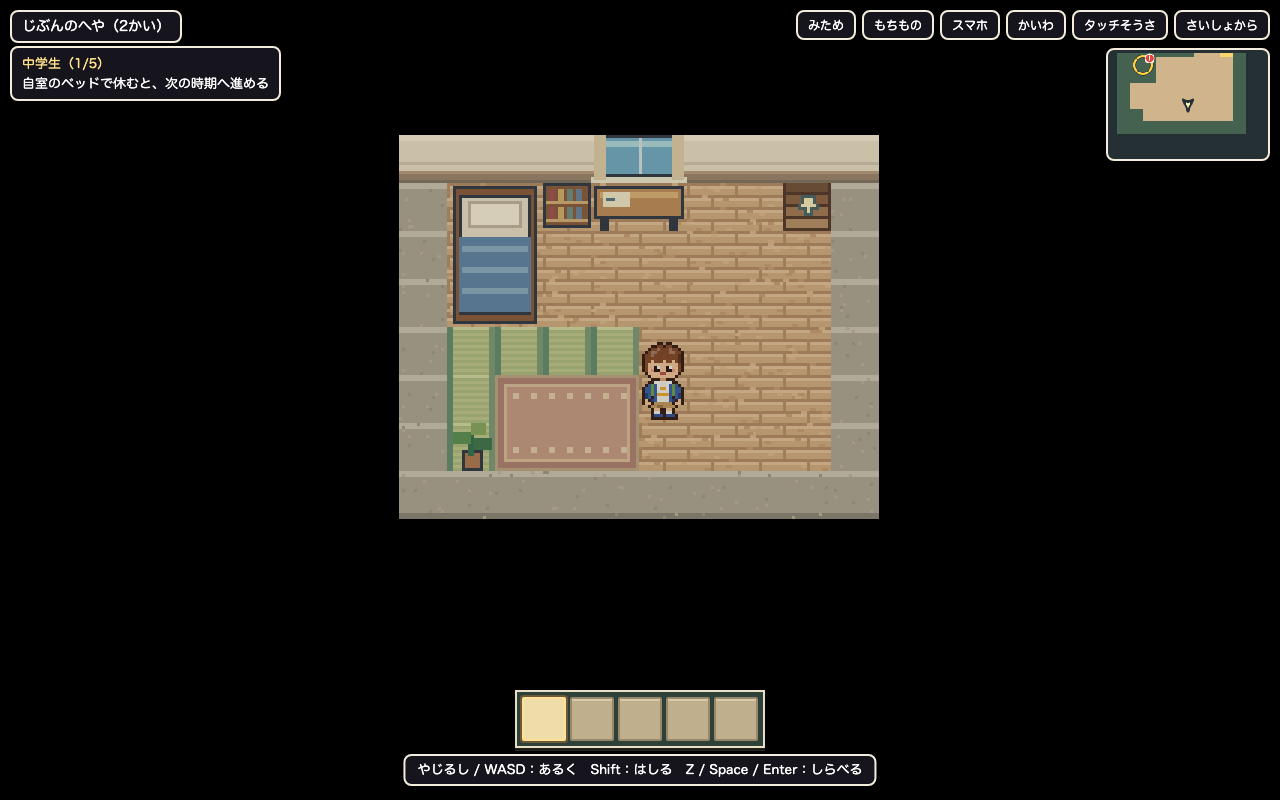
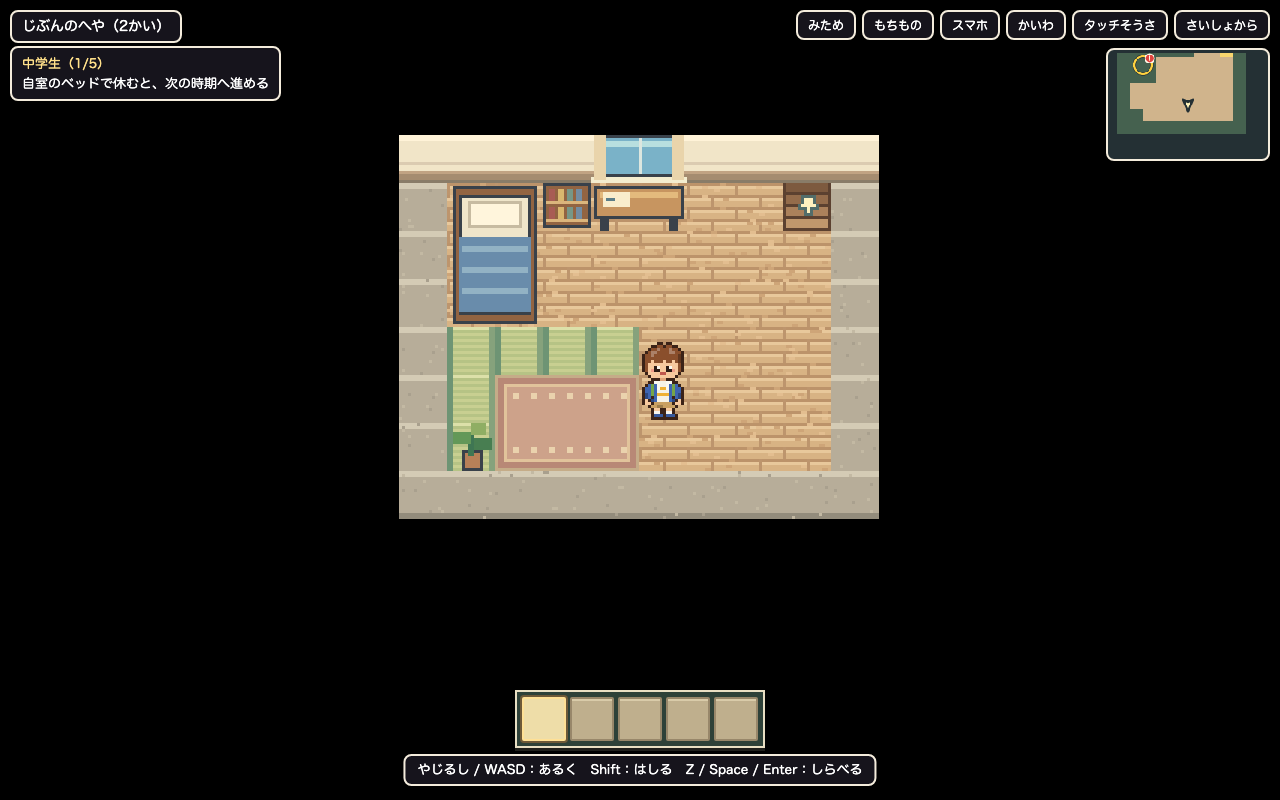
fix(story): 母親の台詞に合わせてお使いの案内を表示する

Changed region(s): [[0.3125, 0.1562, 0.6875, 0.6562]]

diff --git a/game/tests/story-usability.test.ts b/game/tests/story-usability.test.ts
@@ -1,10 +1,35 @@
 import { describe, expect, it } from 'vitest';
+import { DialogController } from '../src/events/dialog';
 import { LifeEventDirector } from '../src/events/director';
-import { STORY_ERRANDS } from '../src/story/config';
+import { STORY_ERRANDS, STORY_MOTHER_KEY, type StoryErrand } from '../src/story/config';
 import { StoryDirector } from '../src/story/director';
 import { STORY_EVENTS } from '../src/story/events';
-import { newStoryState } from '../src/story/state';
+import { storyMapGoals } from '../src/story/map-goals';
+import { newStoryState, parseStorySave } from '../src/story/state';
 import { storyTasks } from '../src/ui/story-hud';
+
+function openMotherDialog(story: StoryDirector, dialog: DialogController): void {
+  const reply = story.onMapEvent({ type: 'interact', areaId: 'home-family-interior',
+    interactionId: 'mother', eventKey: STORY_MOTHER_KEY });
+  if (!reply) throw new Error('The mother did not respond');
+  expect(dialog.open(reply.speaker ?? '', reply.lines)).toBe(true);
+}
+
+function startIntroduction() {
+  const story = StoryDirector.newGame(new LifeEventDirector(STORY_EVENTS));
+  const dialog = new DialogController();
+  openMotherDialog(story, dialog);
+  return { story, dialog };
+}
+
+function expectGuidance(story: StoryDirector, errands: readonly StoryErrand[]): void {
+  expect(storyTasks(story).map(task => task.id)).toEqual(errands.map(errand => errand.id));
+  expect(storyMapGoals(story)).toEqual({
+    pending: errands.map(errand => errand.facilityId),
+    done: [],
+    targets: errands.map(errand => ({ id: errand.facilityId, eventKey: errand.eventKey })),
+  });
+}
 
 describe('story errand checklist', () => {
   it('keeps every errand in its original position when completed out of order and resumed', () => {
@@ -30,5 +55,80 @@ describe('story errand checklist', () => {
     expect(storyTasks({ phase: 'errands', errandsDone: [] }, [extra])).toEqual([
       { id: 'library', label: '図書館に本を返す', done: false },
     ]);
+  });
+});
+
+describe('spoken errand introduction', () => {
+  it('reveals checklist rows and map targets only as each errand is spoken', () => {
+    const { story, dialog } = startIntroduction();
+    expect(story.phase).toBe('errands');
+    expect(story.errandsRevealed).toEqual([]);
+    expectGuidance(story, []);
+
+    for (const phrase of ['おはよう', 'スマホ', 'お使いを頼める']) {
+      expect(dialog.current?.lines[dialog.current.index]).toContain(phrase);
+      story.observeDialog(dialog.current);
+      expectGuidance(story, []);
+      dialog.advance();
+    }
+
+    for (const [index, errand] of STORY_ERRANDS.entries()) {
+      expect(dialog.current?.lines[dialog.current.index]).toContain(errand.place);
+      story.observeDialog(dialog.current);
+      expectGuidance(story, STORY_ERRANDS.slice(0, index + 1));
+
+      story.observeDialog(dialog.current);
+      expectGuidance(story, STORY_ERRANDS.slice(0, index + 1));
+      dialog.advance();
+    }
+
+    while (dialog.current) {
+      story.observeDialog(dialog.current);
+      expectGuidance(story, STORY_ERRANDS);
+      dialog.advance();
+    }
+  });
+
+  it('keeps every errand visible after the introduction ends and when visiting the mother again', () => {
+    const { story, dialog } = startIntroduction();
+    while (dialog.current) {
+      story.observeDialog(dialog.current);
+      dialog.advance();
+    }
+    story.observeDialog(dialog.current);
+    expect(story.errandsRevealed).toBeUndefined();
+    expectGuidance(story, STORY_ERRANDS);
+
+    openMotherDialog(story, dialog);
+    expect(dialog.current?.lines[0]).toContain('あとは');
+    story.observeDialog(dialog.current);
+    expect(story.errandsRevealed).toBeUndefined();
+    expectGuidance(story, STORY_ERRANDS);
+    dialog.advance();
+    story.observeDialog(dialog.current);
+    expectGuidance(story, STORY_ERRANDS);
+  });
+
+  it.each([0, 2])('restores all guidance after saving with %i errands announced', count => {
+    const { story, dialog } = startIntroduction();
+    const stopAt = count === 0 ? 0
+      : dialog.current!.lines.findIndex(line => line.includes(STORY_ERRANDS[count - 1].place));
+    expect(stopAt).toBeGreaterThanOrEqual(0);
+    while (dialog.current && dialog.current.index < stopAt) {
+      story.observeDialog(dialog.current);
+      dialog.advance();
+    }
+    story.observeDialog(dialog.current);
+    expectGuidance(story, STORY_ERRANDS.slice(0, count));
+
+    const saved = JSON.parse(JSON.stringify(story.save()));
+    expect(saved).toEqual({ ...newStoryState(), phase: 'errands' });
+    expect(parseStorySave(saved)).toEqual(saved);
+    const resumed = StoryDirector.resume(saved, new LifeEventDirector(STORY_EVENTS));
+    resumed.observeDialog(null);
+    expect(resumed.errandsRevealed).toBeUndefined();
+    expectGuidance(resumed, STORY_ERRANDS);
+    expect(resumed.save()).toEqual(saved);
+    expectGuidance(story, STORY_ERRANDS.slice(0, count));
   });
 });

diff --git a/game/src/story/director.ts b/game/src/story/director.ts
@@ -10,6 +10,7 @@
  * - 最後に、選んだ選択肢と所持金から評価（Issue #62、score.ts）を計算して振り返る。結果画面はまだないため会話欄に出す。
  */
 import type { MapEvent, MapEventSink, PortalDef, SpawnPoint } from '../core/types';
+import type { DialogState } from '../events/dialog';
 import { shopCatalog } from '../data/shop-catalogs';
 import type { LifeEventDirector, LifeEventOutcome } from '../events/director';
 import {
@@ -61,6 +62,7 @@ export class StoryDirector implements MapEventSink {
   private host?: StoryHost;
   private readonly queue: Narration[] = [];
   private pendingAfter?: () => void;
+  private errandIntroduction?: { lines: readonly string[]; firstTaskLine: number; shown: number };
   /** A story event whose choices are still open. */
   private inProgress: string | null = null;
   /** Notices already handed to the inbox in this session (the inbox itself also drops duplicates after a reload). */
@@ -94,6 +96,25 @@ export class StoryDirector implements MapEventSink {
   get startPoint(): Readonly<SpawnPoint> { return STORY_BEDROOM; }
   get canRide(): boolean { return bikeOwned(this.state); }
   get errandsDone(): readonly string[] { return this.state.errandsDone; }
+  /** 最初の説明中だけ、すでに台詞に出た用事を返す。通常の再開時は全件を案内する。 */
+  get errandsRevealed(): readonly string[] | undefined {
+    const introduction = this.errandIntroduction;
+    return introduction && STORY_ERRANDS.slice(0, introduction.shown).map(errand => errand.id);
+  }
+
+  /** 実際に表示する台詞に合わせて、お使いの案内を一件ずつ増やす。 */
+  observeDialog(dialog: Readonly<DialogState> | null): void {
+    const introduction = this.errandIntroduction;
+    if (!introduction) return;
+    if (!dialog || dialog.speaker !== STORY_MOTHER_NAME ||
+        dialog.lines.length !== introduction.lines.length ||
+        dialog.lines.some((line, index) => line !== introduction.lines[index])) {
+      this.errandIntroduction = undefined;
+      return;
+    }
+    introduction.shown = Math.max(introduction.shown,
+      Math.min(STORY_ERRANDS.length, Math.max(0, dialog.index - introduction.firstTaskLine + 1)));
+  }
   get stepsDone(): readonly string[] { return this.state.stepsDone; }
   get choices(): Readonly<Record<string, string>> { return this.state.choices; }
 
@@ -197,14 +218,19 @@ export class StoryDirector implements MapEventSink {
       s.phase = 'errands';
       this.host?.setPhoneOwned(true);
       this.host?.changeMoney(STORY_ERRAND_ALLOWANCE_YEN);
-      return { speaker: STORY_MOTHER_NAME, lines: [
+      const greeting = [
         'おはよう。今日から中学生だね。',
         'はい、これ。入学のお祝いにスマホを用意したよ。（スマホをもらった！ P キーで開ける）',
         'さっそくだけど、お使いを頼める？ 町をひと回りすれば、どこに何があるか分かるよ。',
+      ];
+      const lines = [
+        ...greeting,
         ...STORY_ERRANDS.map(e => `・${e.place}`),
         `買い物のお金も渡しておくね。（${STORY_ERRAND_ALLOWANCE_YEN}円もらった）`,
         '順番は自由。全部終わったら帰ってきてね。',
-      ] };
+      ];
+      this.errandIntroduction = { lines, firstTaskLine: greeting.length, shown: 0 };
+      return { speaker: STORY_MOTHER_NAME, lines };
     }
     if (s.phase === 'errands') {
       const left = STORY_ERRANDS.filter(e => !s.errandsDone.includes(e.id)).map(e => e.place);

diff --git a/game/src/ui/story-hud.ts b/game/src/ui/story-hud.ts
@@ -14,10 +14,12 @@ const ERRAND_ACTIONS: Readonly<Record<string, string>> = {
   station: '駅員さんと話す',
 };
 
-export function storyTasks(story: Pick<StoryDirector, 'phase' | 'errandsDone'>,
+export function storyTasks(story: Pick<StoryDirector, 'phase' | 'errandsDone'> &
+  Partial<Pick<StoryDirector, 'errandsRevealed'>>,
   errands: readonly StoryErrand[] = STORY_ERRANDS): { id: string; label: string; done: boolean }[] {
   if (story.phase !== 'errands') return [];
-  return errands.map(errand => ({
+  const revealed = story.errandsRevealed;
+  return errands.filter(errand => !revealed || revealed.includes(errand.id)).map(errand => ({
     id: errand.id,
     label: ERRAND_ACTIONS[errand.id] ?? errand.place,
     done: story.errandsDone.includes(errand.id),
@@ -54,6 +56,7 @@ export class StoryHud {
   }
 
   update(): void {
+    this.root.hidden = this.story.phase === 'errands' && this.story.errandsRevealed?.length === 0;
     const status = this.story.status();
     const tasks = storyTasks(this.story);
     const text = JSON.stringify([status, tasks]);

diff --git a/game/src/story/map-goals.ts b/game/src/story/map-goals.ts
@@ -11,7 +11,12 @@ export function storyMapGoals(story: StoryDirector | undefined): MinimapGoals | 
     return { pending: [STORY_HOME_FACILITY], done: [], targets: [{ id: STORY_HOME_FACILITY, eventKey: STORY_MOTHER_KEY }] };
   }
   if (!goals) return undefined;
-  if (story.phase === 'errands') return { ...goals, targets: errands };
+  if (story.phase === 'errands') {
+    const revealed = story.errandsRevealed;
+    const visible = new Set(STORY_ERRANDS.filter(errand => !revealed || revealed.includes(errand.id)).map(errand => errand.facilityId));
+    return { pending: goals.pending.filter(id => visible.has(id)), done: goals.done.filter(id => visible.has(id)),
+      targets: errands.filter(target => visible.has(target.id)) };
+  }
   if (story.phase === 'return-home') {
     return { ...goals, targets: [{ id: STORY_HOME_FACILITY, eventKey: STORY_MOTHER_KEY }, ...errands] };
   }

diff --git a/game/src/main.ts b/game/src/main.ts
@@ -165,6 +165,7 @@ const loop = startLoop({
     avatar.drawPreview(now);
     lifeEventPanel.update();
     dialogLog.observe(game.dialog);
+    story?.observeDialog(game.dialog);
     storyHud?.update();
     hud.update(now);
     ui.update();

diff --git a/docs/review/story-playability/README.md b/docs/review/story-playability/README.md
@@ -4,25 +4,52 @@
 
 ## 実装と確認方法
 
-お使いを一件ずつ縦に並べ、済んだ用事にも同じ位置でチェックと取り消し線を残す。スマホの縦画面では、現在地とメニューの下、ミニマップの左に配置する。会話中やほかの画面を開いている間は隠す。
+お使いは、母親がそれぞれの行き先を話す台詞に合わせて一件ずつ縦に追加する。話しかけた直後の挨拶・スマホの受け渡し・依頼の導入ではまだ一覧を出さず、地図の印も説明済みの用事だけ出す。説明後と母親への再訪では全件を表示し、済んだ用事には同じ位置でチェックと取り消し線を残す。説明途中で保存して再開した場合も、全件を表示して達成済みのチェックを引き継ぐ。スマホの縦画面では、現在地とメニューの下、ミニマップの左に配置する。バッグなどの画面や大きい地図を開いている間は隠す。
 
 目的地の印は、現在のエリアに相手がいる場合は実際の会話対象を指す。別のエリアなら、有効な出入口をたどり、最少のエリア移動で向かえる最初の入口・出口・階段を指す。母親への案内は1階、節目の案内は2階のベッドまで続く。相手や経路がなければ従来の施設位置を使う。施設の絵や名前、NPCと建物の配置は変えない。
 
 屋内では持ち物欄の上までを描画範囲とし、出口と主人公が持ち物欄に隠れないようにする。横幅と拡大率を保ち、キャラクターの大きさは変えない。品名一行の高さも予約し、会話・バッグの開閉中も表示範囲を維持する。屋外へ戻ると全画面を使う。
 
-ゲームを起動して「はじめから」を選び、母親からお使いを受ける。学校へ入ると印が入口から先生へ変わり、話し終えると用事にチェックが残る。出口の前で持ち物欄と重ならないことと、バッグの開閉でカメラが動かないことを確認する。公園の友達・駅員・コンビニの店員への案内と、保存後の再開も確認対象とする。
+ゲームを起動して「はじめから」を選び、母親に話しかける。挨拶中は一覧がなく、各用事の台詞で一覧と地図の印が一件ずつ増えることを確認する。学校へ入ると印が入口から先生へ変わり、話し終えると用事にチェックが残る。出口の前で持ち物欄と重ならないことと、バッグの開閉でカメラが動かないことを確認する。公園の友達・駅員・コンビニの店員への案内と、保存後の再開も確認対象とする。
 
 ## 検証結果
 
-地図と目的地の単体テスト30件、チェックリストと描画範囲の単体テスト6件が成功した。型と配置データの検査を含むビルドも成功した。
+関連する単体テストは4ファイル・計40件が成功した。内訳は `story.test.ts` が13件、`minimap-targets.test.ts` が17件、`story-usability.test.ts` が7件、`playfield-viewport.test.ts` が3件。発話前の0件から台詞ごとの1〜4件への変化、同じ行を再観測しても増えないこと、会話終了・再訪・途中保存からの再開を確認した。型と配置データの検査を含む `npm run build` も成功した。
 
-ブラウザ E2E は1280×800、390×844、844×390、320×568の4サイズと節目の確認で計21件が成功した。上部表示の非重複、キー・タッチ操作による会話完了、出口と主人公の見え方、拡大率の維持、バッグ開閉時のカメラ固定、保存復帰、母親とベッドへの案内を確認した。ページエラーは0件だった。独立確認では、バッグを開いたまま縦から横へ画面サイズを変更しても、閉じた後の表示範囲とカメラが変わらないことも確認した。
+ブラウザ E2E は1280×800、390×844、844×390、320×568の4サイズと節目の確認で計25件が成功した。各サイズで、挨拶中は一覧が隠れ、用事の発話に合わせて一覧と地図の印が一件ずつ増えることを確認した。上部表示の非重複、キー・タッチ操作による会話完了、出口と主人公の見え方、拡大率の維持、バッグ開閉時のカメラ固定、保存復帰、母親とベッドへの案内も確認した。ページエラーは0件だった。独立確認では、バッグを開いたまま縦から横へ画面サイズを変更しても、閉じた後の表示範囲とカメラが変わらないことも確認した。
 
-再実行は game ディレクトリで npm run dev -- --host 127.0.0.1 --port 5489 --strictPort を起動し、別ターミナルの同ディレクトリで SLG_URL=http://127.0.0.1:5489 SLG_SHOTS=../docs/review/story-playability node scripts/e2e-story-usability.mjs を実行する。E2Eは独立したブラウザ環境を使う。単体テストは npx vitest run tests/minimap*.test.ts tests/story-usability.test.ts tests/playfield-viewport.test.ts --maxWorkers=2、ビルドは npm run build で確認できる。
+単体テストとビルドは、game ディレクトリで次のコマンドを実行する。単体テストの同時実行数は1にする。
+
+```sh
+npx vitest run tests/story-usability.test.ts tests/story.test.ts tests/minimap-targets.test.ts tests/playfield-viewport.test.ts --maxWorkers=1
+npm run build
+```
+
+E2E の再実行では、game ディレクトリで開発サーバーを起動する。
+
+```sh
+npm run dev -- --host 127.0.0.1 --port 5489 --strictPort
+```
+
+別ターミナルの同じディレクトリで、次のコマンドを実行する。E2E は独立したブラウザ環境を使う。
+
+```sh
+SLG_URL=http://127.0.0.1:5489 SLG_SHOTS=../docs/review/story-playability node scripts/e2e-story-usability.mjs
+```
 
 ## 確認画像
 
-町のお使い一覧と目的地の印。
+PCで母親が最初の行き先を話したところ。この時点では一件だけ表示する。
+
+![PCで台詞と同時に最初の用事を表示](1280x800-first-errand-dialog.png)
+
+スマホの縦画面でも、同じ台詞に合わせて最初の一件を表示する。
+
+![スマホで台詞と同時に最初の用事を表示](390x844-first-errand-dialog.png)
+
+同じ発話の[横画面](844x390-first-errand-dialog.png)と[幅320pxの縦画面](320x568-first-errand-dialog.png)も保存している。
+
+説明が終わった後の一覧と目的地の印。
 
 ![町のお使い一覧](1280x800-errands-town.png)
 

diff --git a/docs/features/story.md b/docs/features/story.md
@@ -49,7 +49,7 @@
 - お使いの行き先（チェックポイント）は町の主要施設から選ぶ。候補は学校・駅・公園・商店（コンビニ等）で、最終的な一覧は未決定。マップの施設定義（`facilityId`）に基づいて指定し、描画や移動の処理に場所ごとの条件を書かない。
 - 各行き先に用事（例：品物を買う、届け物を渡す、伝言を伝える）を一つずつ置き、行き先の NPC に話しかけて用事を済ませると達成とする。用事の内容は未決定。買う用事は [店員から始める買い物](shopping.md) の画面を使えるようにする。
 - 用事は失敗しても達成とみなし、やり直しや詰みを生まない（品物を買い間違えても、渡す・伝える会話の結果は状態に反映するだけ）。
-- お使いは画面の案内に一件ずつ縦に並べ、済んだ用事も同じ位置にチェックを残す。[ミニマップ](map.md) は目的の人物や、その場所へ向かう出入口・階段を示す。順番は自由とする。お使いの一覧をスマホで確認できるようにするかは未決定。
+- お使いは母親が行き先を説明する台詞に合わせて、画面の案内へ一件ずつ縦に追加する。済んだ用事も同じ位置にチェックを残す。[ミニマップ](map.md) は目的の人物や、その場所へ向かう出入口・階段を示す。順番は自由とする。お使いの一覧をスマホで確認できるようにするかは未決定。
 - お使いの間に任意で建物に入ったり、NPC と話したりしてよい。お使いの途中ではセキュリティイベントを発生させない（導入の負担を減らすため。例外を設けるかは未決定）。
 - この段階では自転車に乗れない（歩き・走りのみ）。
 - 全件を済ませると、自宅に戻るよう案内する。
@@ -163,6 +163,8 @@
 - 「つづきから」では保存した場所・状態から再開する。会話や演出、自転車の購入画面の途中で中断した場合は、その出来事の開始前の状態から再開する。
 - 保存の形式は保存基盤（[所持金とバッグ](inventory.md)、[Issue #20](https://github.com/kame447/gmo-security-life-game/issues/20)）とスマホの保存（[スマートフォン](phone.md)）に合わせる。
 
+ただし、母親のお使いの説明中に保存した場合は、お使い中の状態から再開する。説明済みの件数や会話の行位置は保存せず、再開時はすべての用事と地図の印を表示する。済ませた用事のチェックは、保存した達成状況を引き継ぐ。
+
 ## 実装の分け方（案）
 
 小さな単位で順に実装し、それぞれで受け入れ条件を確認する。
@@ -192,7 +194,7 @@
 - お使い：行き先は学校の先生・コンビニ・公園の友達・駅員の4件（仮）。学校・公園・駅は、行き先の NPC に話しかけると決まった会話で達成する。
   - コンビニは「ノートを1冊買う」用事とし、店員に話しかけて開く [店員から始める買い物](shopping.md) の画面で買う。ノートが持ち物に入り、画面を閉じたら達成とする。品ぞろえ・値段（ノート160円）は買い物の画面のものをそのまま使う。
   - 代金として、母親がスマホと一緒にお使いのお金（200円、仮値）を渡す。所持金が値段に足りないときは、店員が会話でノートをくれて達成とし、行き止まりにしない。
-  - 画面の案内には四つの用事を短い行動文で縦に並べ、済んだ用事にチェックと取り消し線を付ける。順序は変えず、会話やほかの画面を開いている間は隠す。[ミニマップ](map.md) の黄色の輪と「!」は、同じエリアなら目的の人物へ、別のエリアならその場所へ向かう最初の入口・出口・階段へ置く。済んだ行き先は緑のチェックで示す。小さい地図の外の印は地図の端に寄せる。施設の絵や名前は動かさず、配置済みの人物・有効な出入口から印の位置を求める。全件済んだら母親へ、節目では自室のベッドへ案内する。
+  - 画面の案内には、母親が各行き先を話すたびに用事を一件ずつ追加する。挨拶・スマホの受け渡し・依頼の導入中にはまだ一覧を出さず、未説明の用事は地図にも印を出さない。四つを説明し終えた後は短い行動文の一覧を保ち、済んだ用事にチェックと取り消し線を付ける。順序は変えず、バッグなどの画面や大きい地図を開いている間は隠す。[ミニマップ](map.md) の黄色の輪と「!」は、同じエリアなら目的の人物へ、別のエリアならその場所へ向かう最初の入口・出口・階段へ置く。済んだ行き先は緑のチェックで示す。小さい地図の外の印は地図の端に寄せる。施設の絵や名前は動かさず、配置済みの人物・有効な出入口から印の位置を求める。全件済んだら母親へ、節目では自室のベッドへ案内する。
 - 自転車の購入（SEC-002）：お使いの後に母親と話すと始まる。スマホの通販画面ではなく、[イベント基盤](life-events.md) の選択肢で3つのサイト（正規・予算超過・偽のセール）から選ぶ。正規サイトでは予算の釣り銭が所持金に入る。偽サイトを選ぶと自転車が届かず、母親が見分け方と相談の大切さを説明した後、残りの予算で町の自転車店で買って自転車を入手する（釣り銭なし）。予算・価格は仮値。入手前は自転車に乗れない。
 - ステージ（2026-11-28、判断記録 0016）：中学生・高校生・大学生・社会人・中年・老後の5つ。制限時間はない。画面上部にステージ名（何番目か）と次の出来事の場所を出し、ミニマップに印を出す。
 - 必須イベント：場所とその場のきっかけに対応し、定義順に解放する。すべて経験すると節目が解放され、自室のベッドで次へ進む。中年・老後の後は最終評価を出して自由に歩ける状態になる。中身と能力値は仮で、採用は未決定。
